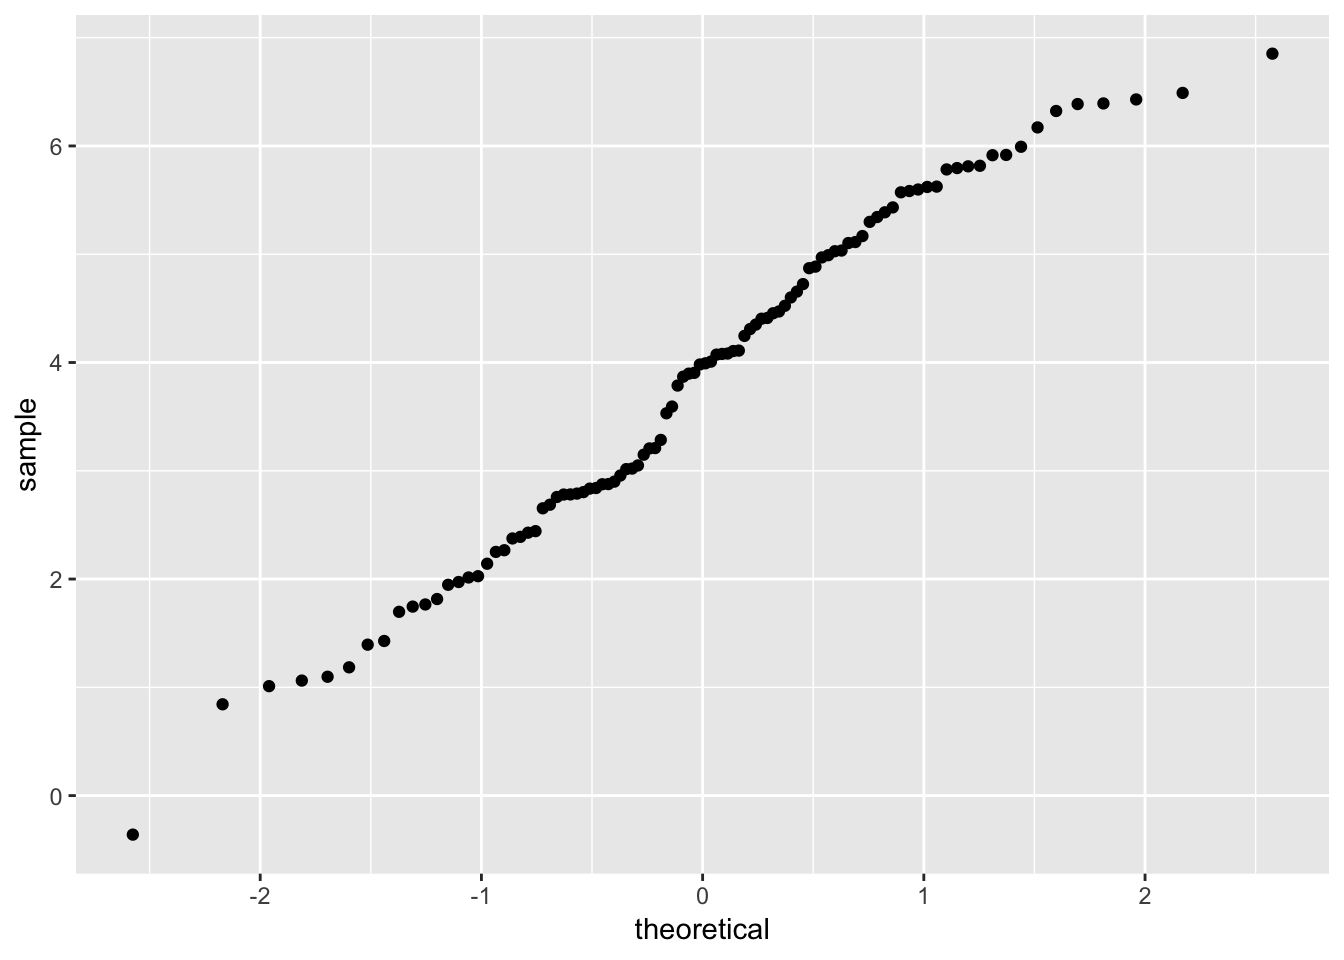
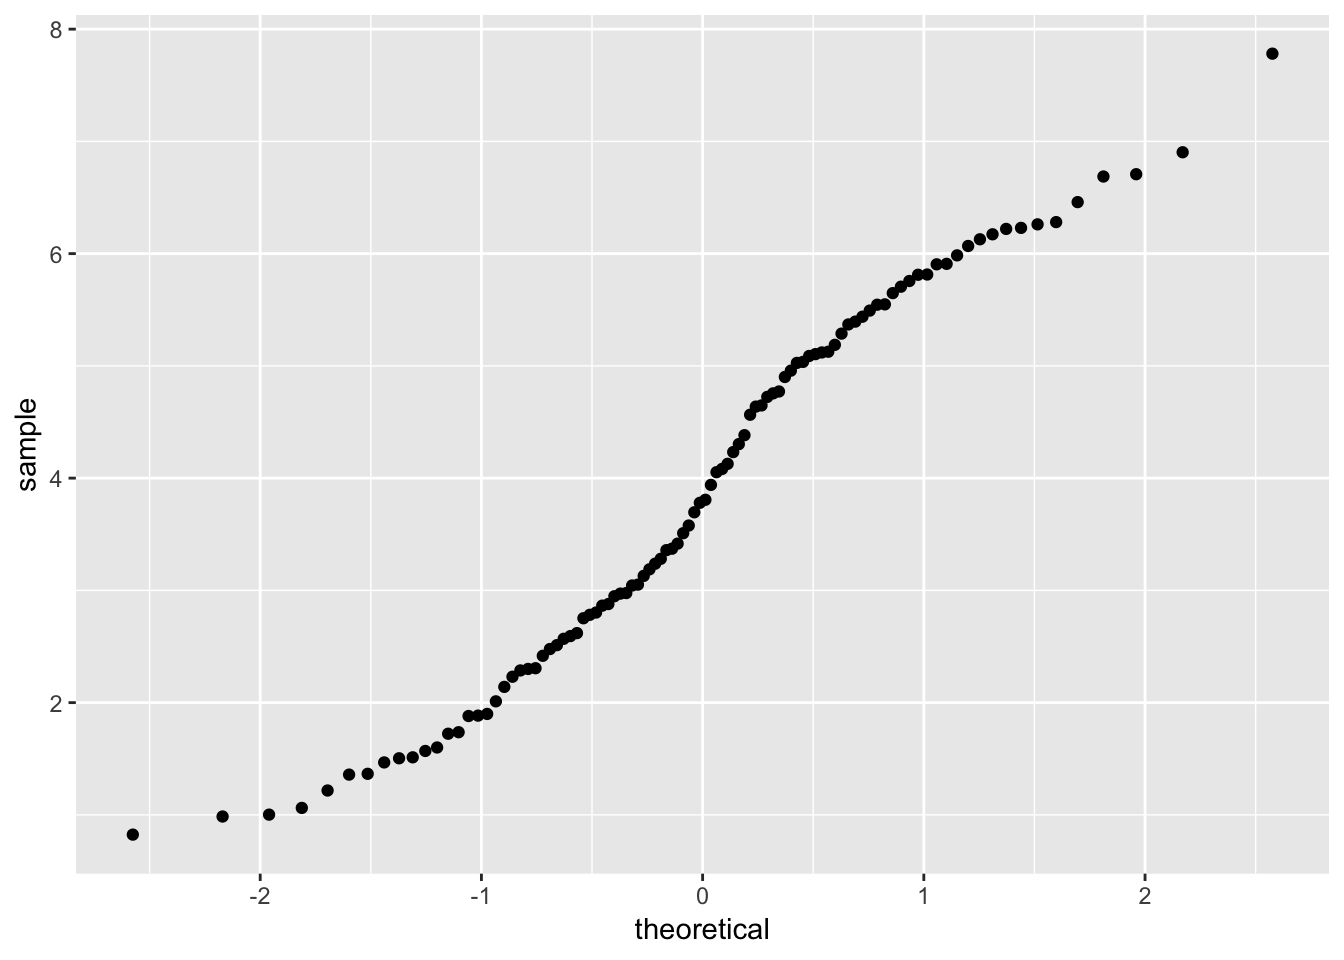
more blog post adjustments

diff --git a/content/post/nrg03/nrg03.html b/content/post/nrg03/nrg03.html
@@ -39,7 +39,7 @@ output:
 <div id="understand-all-the-panels-in-r-studio" class="section level2">
 <h2>Understand all the panels in R Studio</h2>
 <div class="figure">
-<img src="r_studio_panels_tutorial.png" alt="Four panels in R Studio" />
+<img src="/static/post/nrg03/r_studio_panels_tutorial.png" alt="Four panels in R Studio" />
 <p class="caption">Four panels in R Studio</p>
 </div>
 </div>
@@ -287,8 +287,8 @@ manip_sd &lt;- 1</code></pre>
 </blockquote>
 <pre class="r"><code># for example
 rnorm(n = 10, mean = 0, sd = 1)</code></pre>
-<pre><code>##  [1] -2.3871300  0.6897273  0.6791737  0.5691180 -0.5374322  0.7304254
-##  [7]  1.1375978  1.2925235 -0.4279628 -0.4858223</code></pre>
+<pre><code>##  [1]  0.53081229  0.63894280 -0.50227593  0.71581473 -1.28217316
+##  [6] -0.01240168  0.38348978  0.79435972 -0.98158420  0.60695536</code></pre>
 </div>
 <div id="randomly-sample-from-our-populations-we-made-up-above" class="section level3">
 <h3>Randomly sample from our populations we made up above</h3>
@@ -302,23 +302,21 @@ manipulation_values &lt;- rnorm(n = sample_size, mean = manip_mean, sd = manip_s
 
 # print dep_var by just excecuting/running the name of the object
 dep_var</code></pre>
-<pre><code>##   [1]  2.1415891  1.6974360  1.9728639 -0.3602476  3.0204206  2.8029436
-##   [7]  3.5931458  2.7892424  3.9043588  2.9562997  2.3749142  2.3897418
-##  [13]  3.2063438  0.8433968  2.7806026  2.6534949  2.8755289  2.8406708
-##  [19]  1.0624327  3.0153880  2.8772070  2.7816137  4.0791958  2.0265264
-##  [25]  2.0146086  1.8155249  3.0492783  1.7653805  2.8998105  3.2096540
-##  [31]  1.3941080  1.9470008  2.7578532  2.4425254  1.0108151  5.0278354
-##  [37]  3.9925481  2.6865807  1.7456515  4.0728276  3.2851376  2.2663365
-##  [43]  3.5308811  2.8353694  2.2507781  1.0977273  1.4280197  3.1484616
-##  [49]  2.4282560  1.1847839  4.9908989  6.1711540  5.5976996  3.8970268
-##  [55]  4.9703741  5.9170141  5.3872286  5.4322907  5.6213678  5.5717779
-##  [61]  4.6544900  6.3868391  4.1099560  4.4547475  4.1057652  4.2455910
-##  [67]  6.3925828  5.9144202  5.6243740  5.1123554  4.4713994  5.8117120
-##  [73]  5.2989213  5.5837060  6.8522855  4.6008118  5.3435183  6.4295053
-##  [79]  5.9925528  4.0827942  5.7957284  4.3089090  4.8711487  6.3228102
-##  [85]  4.0080080  3.7871190  4.4043504  3.8689886  4.4112652  5.7829676
-##  [91]  4.5237405  6.4897059  5.1033047  5.8167914  5.1677383  3.9815957
-##  [97]  4.7239651  4.3502424  5.0339349  4.8853809</code></pre>
+<pre><code>##   [1] 0.8241449 1.0620302 4.0528854 1.8842116 2.8783620 2.9712652 2.2867609
+##   [8] 2.2999818 3.4166898 1.5042399 2.9479042 1.8992813 1.5694428 1.7229860
+##  [15] 2.2307093 1.2171909 3.1291145 1.6004536 3.5777995 1.3588467 3.7800385
+##  [22] 3.2813969 2.6193237 2.9762051 2.8640374 1.3658853 3.0435251 2.0114802
+##  [29] 0.9855105 2.3065944 2.4773580 2.7823463 2.5687450 1.7364433 3.1874425
+##  [36] 2.1403029 3.6957642 3.3715044 3.2376461 2.7517310 2.5121133 1.4672714
+##  [43] 1.0022775 1.8807754 2.5928349 2.4171739 2.8025832 3.0514230 4.7236935
+##  [50] 1.5128196 5.7561402 4.9011556 5.9845752 5.3692404 4.6372137 4.0818482
+##  [57] 5.3943610 5.5480846 5.0355712 4.7551121 6.0682392 6.4589838 5.5449219
+##  [64] 4.6478129 4.9575863 6.9030562 4.2319922 5.1262712 6.1722965 6.2808126
+##  [71] 5.7054671 7.7815513 4.5649139 5.4380635 5.1048398 5.9047792 6.2200984
+##  [78] 3.9397788 4.7720550 6.1279447 5.9090307 6.2609463 5.1876380 4.3030697
+##  [85] 5.0884281 5.0265057 6.2294962 4.3825759 5.6483442 3.5094493 3.8071871
+##  [92] 5.8140219 6.6870588 3.3585093 5.2874986 5.1196628 4.1274274 6.7076260
+##  [99] 5.8117470 5.4926233</code></pre>
 </div>
 </div>
 <div id="create-a-potentially-confounding-variable-or-a-control-variable" class="section level2">
@@ -330,26 +328,23 @@ dep_var</code></pre>
 
 # print confound by just excecuting/running the name of the object
 confound</code></pre>
-<pre><code>##   [1]  0.84849280  0.76668888 -0.04332746  0.88147220  2.43458704
-##   [6]  1.10258474  2.02537396  2.34273803  2.74446325  1.23105962
-##  [11]  2.25554635 -0.36922918  2.53412699  1.68248818  0.50407450
-##  [16]  1.48254296  3.34274155  2.46695246 -0.11048196 -1.20266779
-##  [21]  2.17354701  2.78292259  1.86532100  0.59311307  0.82200233
-##  [26] -1.43068869  3.27411870  0.32674719  0.94543112  2.22922827
-##  [31]  1.74220949 -0.54171748 -0.07329633  1.05891568  0.10646345
-##  [36]  2.97024317  2.53426291  0.83741632  0.02786253  2.03528997
-##  [41]  0.20443394  0.20335784  1.66992291  1.89875170  0.84374952
-##  [46] -1.42116058 -0.09450434 -0.29598756 -0.42523811  1.21618646
-##  [51]  3.90222726  4.02365989  0.16074199  2.52012843  2.70035023
-##  [56]  3.03282476  3.01165999  1.82079647  2.14227617  3.12252104
-##  [61]  1.65045765  1.59622985  2.37997645  2.06739287  1.18427312
-##  [66]  1.84664567  1.82596089  1.97721738  3.03105276  1.82580178
-##  [71]  1.89982269  3.02437353  1.98724895  3.50610112  3.86198324
-##  [76]  2.56951043  4.48411060  4.17510614  3.70870888  1.90099136
-##  [81]  2.38780678  1.77872341  3.41002761  3.43550510  2.63222265
-##  [86]  3.60543441  2.29143404  2.91134718  0.31408408  2.30396637
-##  [91]  2.35997199  3.31461609  1.46029157  4.27349398  1.12784990
-##  [96]  2.24193159  1.04759375  2.25636257  1.76246813  1.89985249</code></pre>
+<pre><code>##   [1]  2.0602259  1.5238167  3.2548353  1.2372814  0.4461613  1.9942144
+##   [7] -0.2227047  1.0013705  2.9333637  1.3697464  1.7194751 -0.3766442
+##  [13]  0.6032309  1.4066037  0.9506385  2.1291127  1.7048151 -0.7440422
+##  [19]  0.7596403  0.7741502 -0.1982987  0.9980732  0.9969421  1.7772110
+##  [25]  1.8139682  0.2841878  1.5643610  1.4041450 -2.1726849  1.0256524
+##  [31]  0.4397601  2.2629997  1.1578905  1.5571469  0.3111794  0.9040007
+##  [37]  1.7764540  1.1146275  2.0916779  0.5722125  1.6194814  1.4471393
+##  [43]  0.3547968  0.9431021  0.6606972 -0.2424262  2.1834260  2.7767424
+##  [49]  1.8731630  0.2359780  5.1816261  2.9696212  2.1633872  1.9417390
+##  [55]  3.2483088  1.5029012  2.7854511  0.4119974  3.5661134  3.0992361
+##  [61]  2.4336394  2.1329665  2.0548741  4.1750280  1.7315711  3.5963111
+##  [67]  1.8353304  4.2054845  2.9380194  3.1251247  2.7050391  4.0696477
+##  [73]  2.1570506  2.6314567  3.2300898  3.3363198  3.7001753  3.7883028
+##  [79]  3.1086082  2.5145910  1.6795865  4.6065193  3.3669503  3.0967339
+##  [85]  1.9047204  2.9224225  2.1672828  2.0489677  1.8323671  2.1953625
+##  [91]  1.5798499  2.9495979  3.9101062  1.3188834  3.1741430  1.8435565
+##  [97]  1.5924498  5.3184967  2.8170737  2.4065032</code></pre>
 </div>
 <div id="subject-gender" class="section level2">
 <h2>Subject gender</h2>
@@ -386,11 +381,11 @@ gender</code></pre>
 
 # print gender by just excecuting/running the name of the object
 age</code></pre>
-<pre><code>##   [1] 20 21 25 21 24 22 25 25 22 22 22 18 22 25 24 21 19 18 19 24 21 20 22
-##  [24] 22 19 24 19 20 25 25 23 21 20 25 20 21 23 21 22 25 23 22 25 19 24 25
-##  [47] 18 21 22 21 25 18 19 18 19 21 18 19 19 21 22 21 24 23 24 21 24 24 20
-##  [70] 24 19 18 20 25 24 24 24 25 18 20 20 24 23 18 20 25 25 25 22 18 20 18
-##  [93] 21 24 21 21 25 18 23 22</code></pre>
+<pre><code>##   [1] 19 24 19 22 20 24 24 20 19 25 21 25 21 18 24 18 24 23 25 20 25 18 18
+##  [24] 18 22 21 24 23 19 22 25 18 20 22 24 19 22 19 22 22 21 20 24 23 20 24
+##  [47] 25 24 25 18 23 20 23 25 20 21 18 24 25 25 22 20 25 25 23 20 21 22 18
+##  [70] 24 21 23 23 18 24 19 18 18 23 22 25 20 24 24 18 19 23 22 21 20 20 22
+##  [93] 22 24 19 25 24 21 22 22</code></pre>
 </div>
 <div id="data.frame-and-tibble" class="section level2">
 <h2><code>data.frame()</code> and <code>tibble()</code></h2>
@@ -416,16 +411,16 @@ example_data</code></pre>
 <pre><code>## # A tibble: 100 x 6
 ##    subj_num condition dep_var confound gender   age
 ##       &lt;dbl&gt; &lt;fct&gt;       &lt;dbl&gt;    &lt;dbl&gt; &lt;fct&gt;  &lt;dbl&gt;
-##  1        1 control     2.14    0.848  Woman     20
-##  2        2 control     1.70    0.767  Man       21
-##  3        3 control     1.97   -0.0433 Woman     25
-##  4        4 control    -0.360   0.881  Man       21
-##  5        5 control     3.02    2.43   Woman     24
-##  6        6 control     2.80    1.10   Man       22
-##  7        7 control     3.59    2.03   Woman     25
-##  8        8 control     2.79    2.34   Man       25
-##  9        9 control     3.90    2.74   Woman     22
-## 10       10 control     2.96    1.23   Man       22
+##  1        1 control     0.824    2.06  Woman     19
+##  2        2 control     1.06     1.52  Man       24
+##  3        3 control     4.05     3.25  Woman     19
+##  4        4 control     1.88     1.24  Man       22
+##  5        5 control     2.88     0.446 Woman     20
+##  6        6 control     2.97     1.99  Man       24
+##  7        7 control     2.29    -0.223 Woman     24
+##  8        8 control     2.30     1.00  Man       20
+##  9        9 control     3.42     2.93  Woman     19
+## 10       10 control     1.50     1.37  Man       25
 ## # … with 90 more rows</code></pre>
 </div>
 </div>
@@ -449,16 +444,16 @@ example_data</code></pre>
 <pre><code>## # A tibble: 100 x 8
 ##    subj_num condition dep_var confound gender   age dep_var_z confound_z
 ##       &lt;dbl&gt; &lt;fct&gt;       &lt;dbl&gt;    &lt;dbl&gt; &lt;fct&gt;  &lt;dbl&gt;     &lt;dbl&gt;      &lt;dbl&gt;
-##  1        1 control     2.14    0.848  Woman     20   -1.05       -0.719
-##  2        2 control     1.70    0.767  Man       21   -1.33       -0.781
-##  3        3 control     1.97   -0.0433 Woman     25   -1.16       -1.40 
-##  4        4 control    -0.360   0.881  Man       21   -2.62       -0.694
-##  5        5 control     3.02    2.43   Woman     24   -0.503       0.495
-##  6        6 control     2.80    1.10   Man       22   -0.639      -0.524
-##  7        7 control     3.59    2.03   Woman     25   -0.144       0.182
-##  8        8 control     2.79    2.34   Man       25   -0.648       0.425
-##  9        9 control     3.90    2.74   Woman     22    0.0512      0.733
-## 10       10 control     2.96    1.23   Man       22   -0.543      -0.426
+##  1        1 control     0.824    2.06  Woman     19   -1.79       0.0843
+##  2        2 control     1.06     1.52  Man       24   -1.65      -0.331 
+##  3        3 control     4.05     3.25  Woman     19    0.0964     1.01  
+##  4        4 control     1.88     1.24  Man       22   -1.17      -0.552 
+##  5        5 control     2.88     0.446 Woman     20   -0.588     -1.16  
+##  6        6 control     2.97     1.99  Man       24   -0.534      0.0332
+##  7        7 control     2.29    -0.223 Woman     24   -0.933     -1.68  
+##  8        8 control     2.30     1.00  Man       20   -0.925     -0.735 
+##  9        9 control     3.42     2.93  Woman     19   -0.274      0.760 
+## 10       10 control     1.50     1.37  Man       25   -1.39      -0.450 
 ## # … with 90 more rows</code></pre>
 </div>
 <div id="select-specific-columns" class="section level2">
@@ -474,16 +469,16 @@ example_data</code></pre>
 <pre><code>## # A tibble: 100 x 3
 ##    subj_num condition dep_var
 ##       &lt;dbl&gt; &lt;fct&gt;       &lt;dbl&gt;
-##  1        1 control     2.14 
-##  2        2 control     1.70 
-##  3        3 control     1.97 
-##  4        4 control    -0.360
-##  5        5 control     3.02 
-##  6        6 control     2.80 
-##  7        7 control     3.59 
-##  8        8 control     2.79 
-##  9        9 control     3.90 
-## 10       10 control     2.96 
+##  1        1 control     0.824
+##  2        2 control     1.06 
+##  3        3 control     4.05 
+##  4        4 control     1.88 
+##  5        5 control     2.88 
+##  6        6 control     2.97 
+##  7        7 control     2.29 
+##  8        8 control     2.30 
+##  9        9 control     3.42 
+## 10       10 control     1.50 
 ## # … with 90 more rows</code></pre>
 </div>
 <div id="filter-specific-rows" class="section level2">
@@ -500,16 +495,16 @@ example_data</code></pre>
 <pre><code>## # A tibble: 50 x 8
 ##    subj_num condition dep_var confound gender   age dep_var_z confound_z
 ##       &lt;dbl&gt; &lt;fct&gt;       &lt;dbl&gt;    &lt;dbl&gt; &lt;fct&gt;  &lt;dbl&gt;     &lt;dbl&gt;      &lt;dbl&gt;
-##  1        1 control     2.14    0.848  Woman     20   -1.05       -0.719
-##  2        2 control     1.70    0.767  Man       21   -1.33       -0.781
-##  3        3 control     1.97   -0.0433 Woman     25   -1.16       -1.40 
-##  4        4 control    -0.360   0.881  Man       21   -2.62       -0.694
-##  5        5 control     3.02    2.43   Woman     24   -0.503       0.495
-##  6        6 control     2.80    1.10   Man       22   -0.639      -0.524
-##  7        7 control     3.59    2.03   Woman     25   -0.144       0.182
-##  8        8 control     2.79    2.34   Man       25   -0.648       0.425
-##  9        9 control     3.90    2.74   Woman     22    0.0512      0.733
-## 10       10 control     2.96    1.23   Man       22   -0.543      -0.426
+##  1        1 control     0.824    2.06  Woman     19   -1.79       0.0843
+##  2        2 control     1.06     1.52  Man       24   -1.65      -0.331 
+##  3        3 control     4.05     3.25  Woman     19    0.0964     1.01  
+##  4        4 control     1.88     1.24  Man       22   -1.17      -0.552 
+##  5        5 control     2.88     0.446 Woman     20   -0.588     -1.16  
+##  6        6 control     2.97     1.99  Man       24   -0.534      0.0332
+##  7        7 control     2.29    -0.223 Woman     24   -0.933     -1.68  
+##  8        8 control     2.30     1.00  Man       20   -0.925     -0.735 
+##  9        9 control     3.42     2.93  Woman     19   -0.274      0.760 
+## 10       10 control     1.50     1.37  Man       25   -1.39      -0.450 
 ## # … with 40 more rows</code></pre>
 </div>
 <div id="make-your-own-table-of-summary-data" class="section level2">
@@ -529,10 +524,10 @@ example_data</code></pre>
 ## # Groups:   gender [?]
 ##   gender condition     Mean    SD     n
 ##   &lt;fct&gt;  &lt;fct&gt;        &lt;dbl&gt; &lt;dbl&gt; &lt;int&gt;
-## 1 Man    control      0.914 1.27     25
-## 2 Man    manipulation 2.68  0.826    25
-## 3 Woman  control      1.29  1.18     25
-## 4 Woman  manipulation 2.27  1.10     25</code></pre>
+## 1 Man    control       1.10 0.830    25
+## 2 Man    manipulation  2.89 1.12     25
+## 3 Woman  control       1.15 1.13     25
+## 4 Woman  manipulation  2.67 0.885    25</code></pre>
 </div>
 </div>
 <div id="plotting-your-data-with-ggplot2" class="section level1">
@@ -635,15 +630,15 @@ example_data</code></pre>
   select(dep_var, dep_var_z, confound, confound_z) %&gt;% 
   describe()</code></pre>
 <pre><code>##            vars   n mean   sd median trimmed  mad   min  max range  skew
-## dep_var       1 100 3.82 1.59   3.99    3.85 1.79 -0.36 6.85  7.21 -0.15
-## dep_var_z     2 100 0.00 1.00   0.10    0.02 1.12 -2.62 1.90  4.52 -0.15
-## confound      3 100 1.79 1.31   1.90    1.82 1.26 -1.43 4.48  5.91 -0.30
-## confound_z    4 100 0.00 1.00   0.09    0.03 0.96 -2.46 2.06  4.53 -0.30
+## dep_var       1 100 3.89 1.72   3.79    3.88 2.14  0.82 7.78  6.96  0.04
+## dep_var_z     2 100 0.00 1.00  -0.05    0.00 1.24 -1.79 2.27  4.06  0.04
+## confound      3 100 1.95 1.29   1.86    1.94 1.31 -2.17 5.32  7.49 -0.02
+## confound_z    4 100 0.00 1.00  -0.07   -0.01 1.01 -3.19 2.60  5.79 -0.02
 ##            kurtosis   se
-## dep_var       -0.83 0.16
-## dep_var_z     -0.83 0.10
-## confound      -0.37 0.13
-## confound_z    -0.37 0.10</code></pre>
+## dep_var       -1.15 0.17
+## dep_var_z     -1.15 0.10
+## confound       0.39 0.13
+## confound_z     0.39 0.10</code></pre>
 </div>
 <div id="by-condition" class="section level2">
 <h2>By condition</h2>
@@ -657,27 +652,27 @@ example_data</code></pre>
 ##  Descriptive statistics by group 
 ## condition: control
 ##            vars  n  mean   sd median trimmed  mad   min  max range  skew
-## dep_var       1 50  2.51 0.98   2.72    2.52 0.78 -0.36 5.03  5.39 -0.23
-## dep_var_z     2 50 -0.82 0.61  -0.69   -0.82 0.49 -2.62 0.76  3.38 -0.23
-## confound      3 50  1.10 1.23   1.00    1.12 1.52 -1.43 3.34  4.77 -0.13
-## confound_z    4 50 -0.53 0.94  -0.60   -0.51 1.17 -2.46 1.19  3.65 -0.13
+## dep_var       1 50  2.43 0.88   2.49    2.42 0.93  0.82 4.72  3.90  0.16
+## dep_var_z     2 50 -0.85 0.51  -0.81   -0.86 0.54 -1.79 0.49  2.27  0.16
+## confound      3 50  1.12 0.98   1.14    1.16 0.91 -2.17 3.25  5.43 -0.59
+## confound_z    4 50 -0.64 0.76  -0.63   -0.61 0.70 -3.19 1.01  4.20 -0.59
 ##            kurtosis   se
-## dep_var        0.53 0.14
-## dep_var_z      0.53 0.09
-## confound      -0.89 0.17
-## confound_z    -0.89 0.13
+## dep_var       -0.55 0.12
+## dep_var_z     -0.55 0.07
+## confound       1.18 0.14
+## confound_z     1.18 0.11
 ## -------------------------------------------------------- 
 ## condition: manipulation
 ##            vars  n mean   sd median trimmed  mad   min  max range skew
-## dep_var       1 50 5.13 0.82   5.11    5.11 1.03  3.79 6.85  3.07 0.13
-## dep_var_z     2 50 0.82 0.52   0.81    0.81 0.64 -0.02 1.90  1.92 0.13
-## confound      3 50 2.48 0.98   2.33    2.48 0.93  0.16 4.48  4.32 0.02
-## confound_z    4 50 0.53 0.75   0.42    0.53 0.71 -1.25 2.06  3.31 0.02
+## dep_var       1 50 5.34 0.92   5.38    5.35 0.92  3.36 7.78  4.42 0.02
+## dep_var_z     2 50 0.85 0.54   0.87    0.85 0.53 -0.31 2.27  2.58 0.02
+## confound      3 50 2.78 1.00   2.80    2.73 1.05  0.41 5.32  4.91 0.37
+## confound_z    4 50 0.64 0.78   0.66    0.60 0.81 -1.19 2.60  3.80 0.37
 ##            kurtosis   se
-## dep_var       -1.12 0.12
-## dep_var_z     -1.12 0.07
-## confound      -0.42 0.14
-## confound_z    -0.42 0.11</code></pre>
+## dep_var       -0.21 0.13
+## dep_var_z     -0.21 0.08
+## confound      -0.02 0.14
+## confound_z    -0.02 0.11</code></pre>
 </div>
 </div>
 <div id="read-in-your-own-data" class="section level1">
@@ -764,13 +759,13 @@ coffee_data &lt;- coffee_filepath %&gt;% read_delim(delim = &quot; &quot;)</code
 ##  Welch Two Sample t-test
 ## 
 ## data:  dep_var by condition
-## t = -14.5, df = 95.233, p-value &lt; 2.2e-16
+## t = -16.177, df = 97.822, p-value &lt; 2.2e-16
 ## alternative hypothesis: true difference in means is not equal to 0
 ## 95 percent confidence interval:
-##  -2.979839 -2.262161
+##  -3.269070 -2.554652
 ## sample estimates:
 ##      mean in group control mean in group manipulation 
-##                   2.512257                   5.133257</code></pre>
+##                   2.431611                   5.343472</code></pre>
 </div>
 <div id="pairs.panels-helppairs.panels" class="section level2">
 <h2><code>pairs.panels()</code>, help(pairs.panels)</h2>
@@ -794,7 +789,7 @@ lm_fit</code></pre>
 ## 
 ## Coefficients:
 ##           (Intercept)  conditionmanipulation               confound  
-##                2.1250                 2.1369                 0.3521</code></pre>
+##                2.0453                 2.3398                 0.3445</code></pre>
 </div>
 <div id="summary-helpsummary" class="section level2">
 <h2><code>summary()</code>, help(summary)</h2>
@@ -805,19 +800,19 @@ lm_fit</code></pre>
 ## 
 ## Residuals:
 ##      Min       1Q   Median       3Q      Max 
-## -2.79557 -0.53727  0.04037  0.49672  1.85711 
+## -1.93101 -0.63128  0.04945  0.49162  2.03299 
 ## 
 ## Coefficients:
 ##                       Estimate Std. Error t value Pr(&gt;|t|)    
-## (Intercept)            2.12498    0.14162  15.005  &lt; 2e-16 ***
-## conditionmanipulation  2.13685    0.19287  11.079  &lt; 2e-16 ***
-## confound               0.35208    0.07419   4.745 7.17e-06 ***
+## (Intercept)            2.04532    0.15205  13.452  &lt; 2e-16 ***
+## conditionmanipulation  2.33983    0.21908  10.680  &lt; 2e-16 ***
+## confound               0.34454    0.08516   4.046 0.000105 ***
 ## ---
 ## Signif. codes:  0 &#39;***&#39; 0.001 &#39;**&#39; 0.01 &#39;*&#39; 0.05 &#39;.&#39; 0.1 &#39; &#39; 1
 ## 
-## Residual standard error: 0.8184 on 97 degrees of freedom
-## Multiple R-squared:  0.742,  Adjusted R-squared:  0.7367 
-## F-statistic: 139.5 on 2 and 97 DF,  p-value: &lt; 2.2e-16</code></pre>
+## Residual standard error: 0.8368 on 97 degrees of freedom
+## Multiple R-squared:  0.7669, Adjusted R-squared:  0.7621 
+## F-statistic: 159.6 on 2 and 97 DF,  p-value: &lt; 2.2e-16</code></pre>
 </div>
 <div id="anova-helpanova" class="section level2">
 <h2><code>Anova()</code>, help(Anova)</h2>
@@ -826,10 +821,10 @@ lm_fit</code></pre>
 ## 
 ## Response: dep_var
 ##              Sum Sq Df F value    Pr(&gt;F)    
-## (Intercept) 150.798  1 225.148 &lt; 2.2e-16 ***
-## condition    82.212  1 122.746 &lt; 2.2e-16 ***
-## confound     15.082  1  22.519 7.169e-06 ***
-## Residuals    64.968 97                      
+## (Intercept) 126.695  1  180.95 &lt; 2.2e-16 ***
+## condition    79.869  1  114.07 &lt; 2.2e-16 ***
+## confound     11.462  1   16.37 0.0001047 ***
+## Residuals    67.917 97                      
 ## ---
 ## Signif. codes:  0 &#39;***&#39; 0.001 &#39;**&#39; 0.01 &#39;*&#39; 0.05 &#39;.&#39; 0.1 &#39; &#39; 1</code></pre>
 </div>

diff --git a/content/post/nrg01/nrg01.html b/content/post/nrg01/nrg01.html
@@ -130,7 +130,7 @@ library(MBESS)</code></pre>
 <div id="conceptual-diagram" class="section level2">
 <h2>Conceptual Diagram</h2>
 <div class="figure">
-<img src="images/figure_01.jpg" alt="Figure 1. Room temperature is associated with water drinking indirectly through thirstiness" />
+<img src="/static/post/nrg01/nrg01_files/figure_01.jpg" alt="Figure 1. Room temperature is associated with water drinking indirectly through thirstiness" />
 <p class="caption">Figure 1. Room temperature is associated with water drinking indirectly through thirstiness</p>
 </div>
 </div>
